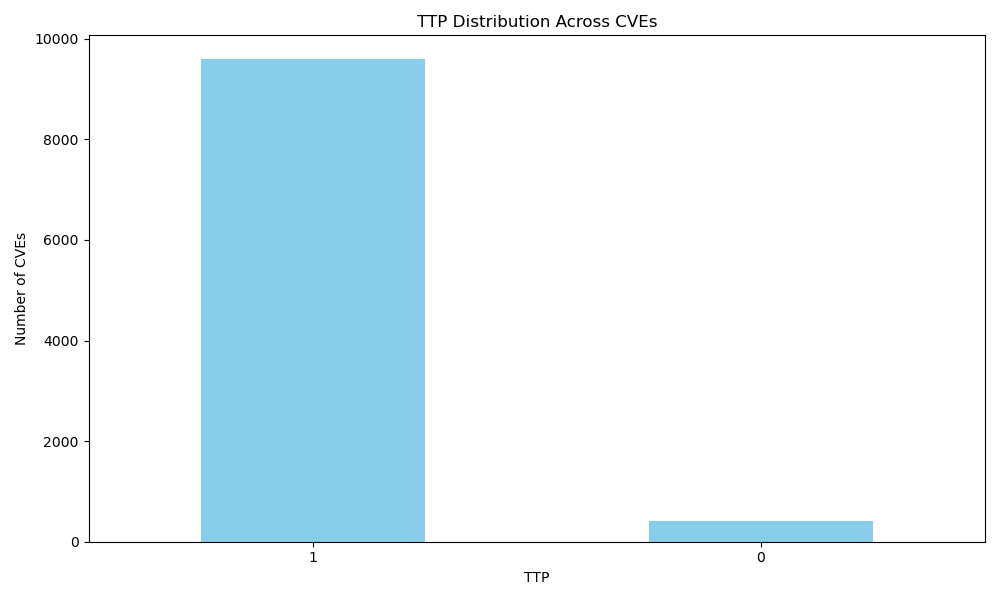
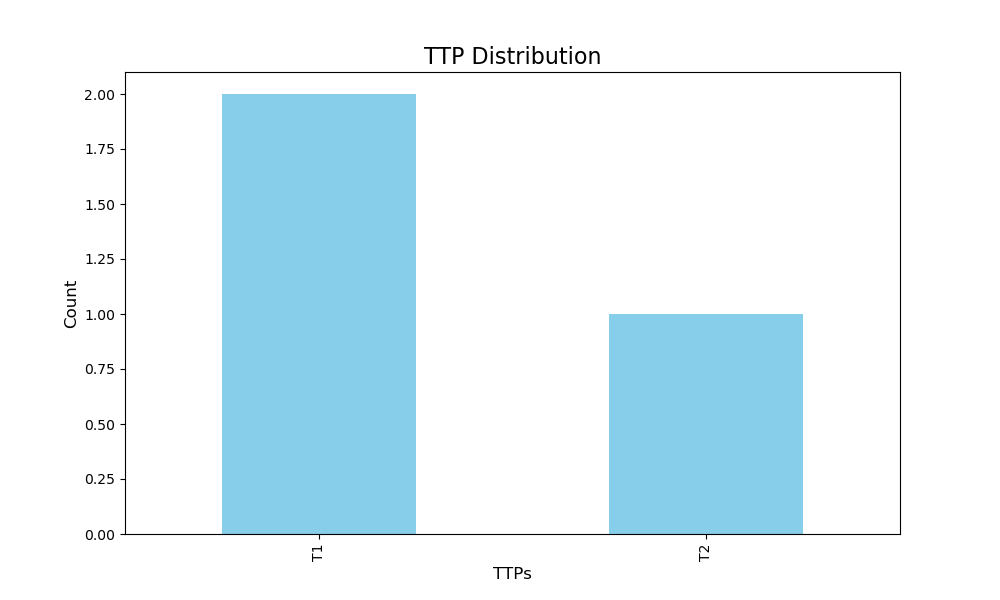
ready for deployment

diff --git a/tests/test_api_endpoints.py b/tests/test_api_endpoints.py
@@ -1,30 +1,106 @@
 from fastapi.testclient import TestClient
 from api.main import app
+import os
 
 client = TestClient(app)
 
-API_KEY = "mysecureapikey"
+# Set up mock data
+MOCK_CSV = "tests/mock_cve_data.csv"
+MOCK_EMPTY_CSV = "tests/mock_empty_data.csv"
+MOCK_INVALID_FILE = "tests/mock_invalid.txt"
+os.makedirs("tests", exist_ok=True)
 
-def test_root():
+# Create mock data files
+with open(MOCK_CSV, "w") as f:
+    f.write("Description\nSample vulnerability description 1\nSample vulnerability description 2")
+
+with open(MOCK_EMPTY_CSV, "w") as f:
+    f.write("Description\n")
+
+with open(MOCK_INVALID_FILE, "w") as f:
+    f.write("This is not a CSV file.")
+
+def test_root_endpoint():
+    """Test the root endpoint."""
     response = client.get("/")
     assert response.status_code == 200
     assert response.json() == {"message": "API is running"}
 
-def test_predict():
-    file_path = "data/processed/processed_cve_data.csv"
-    with open(file_path, "rb") as f:
+def test_predict_with_valid_csv():
+    """Test /predict/ with a valid CSV file."""
+    with open(MOCK_CSV, "rb") as file:
         response = client.post(
             "/predict/",
-            headers={"x-api-key": API_KEY},
-            files={"file": f},
+            headers={"x-api-key": "mysecureapikey"},
+            files={"file": file},
         )
     assert response.status_code == 200
-    assert "output_file" in response.json()
+    assert "Predictions generated successfully." in response.json()["message"]
 
-def test_visualize():
+def test_predict_with_empty_csv():
+    """Test /predict/ with an empty CSV file."""
+    with open(MOCK_EMPTY_CSV, "rb") as file:
+        response = client.post(
+            "/predict/",
+            headers={"x-api-key": "mysecureapikey"},
+            files={"file": file},
+        )
+    assert response.status_code == 400
+    assert "Uploaded CSV file is empty." in response.json()["detail"]
+
+def test_predict_with_invalid_file_type():
+    """Test /predict/ with an invalid file type."""
+    with open(MOCK_INVALID_FILE, "rb") as file:
+        response = client.post(
+            "/predict/",
+            headers={"x-api-key": "mysecureapikey"},
+            files={"file": file},
+        )
+    assert response.status_code == 400
+    assert "Only CSV files are supported." in response.json()["detail"]
+
+def test_predict_without_api_key():
+    """Test /predict/ without an API key."""
+    with open(MOCK_CSV, "rb") as file:
+        response = client.post(
+            "/predict/",
+            files={"file": file},
+        )
+    assert response.status_code == 403
+    assert "Invalid or missing API key" in response.json()["detail"]
+
+
+def test_visualize_with_existing_data():
+    """Test /visualize/ with existing processed data."""
+    # Simulate existing processed data
+    os.makedirs("output", exist_ok=True)
+    processed_csv = "output/predicted_cve_data.csv"
+    with open(processed_csv, "w") as f:
+        f.write("TTP,Recommendation\nT1,Mitigation 1\nT2,Mitigation 2\nT1,Mitigation 1")
+
     response = client.get(
         "/visualize/",
-        headers={"x-api-key": API_KEY}
+        headers={"x-api-key": "mysecureapikey"},
     )
     assert response.status_code == 200
-    assert "visualization" in response.json()
+    assert "Visualization generated successfully." in response.json()["message"]
+    assert "output/ttp_distribution.png" in response.json()["visualization"]
+
+def test_visualize_without_existing_data():
+    """Test /visualize/ without existing processed data."""
+    if os.path.exists("output/predicted_cve_data.csv"):
+        os.remove("output/predicted_cve_data.csv")
+
+    response = client.get(
+        "/visualize/",
+        headers={"x-api-key": "mysecureapikey"},
+    )
+    assert response.status_code == 404
+    assert "No processed data found." in response.json()["detail"]
+
+
+
+    # PYTHONPATH=. pytest tests/     //for test the endpoints
+    # uvicorn api.main:app --host=0.0.0.0 --port=8000    // for start the server
+    
+

diff --git a/api/main.py b/api/main.py
@@ -18,13 +18,19 @@ app = FastAPI()
 logging.basicConfig(level=logging.INFO)
 logger = logging.getLogger(__name__)
 
-# Authentication setup
-API_KEY = "mysecureapikey"
+import os
 
-def verify_api_key(x_api_key: str = Header(...)):
-    if x_api_key != API_KEY:
-        logger.warning("Unauthorized access attempt with invalid API key.")
-        raise HTTPException(status_code=403, detail="Invalid API key")
+API_KEY = os.getenv("API_KEY", "eutoir098ut8w9aeruiosdjgpijds")  
+
+# Authentication setup
+# API_KEY = "mysecureapikey"
+
+def verify_api_key(x_api_key: str = Header(None)):
+    if not x_api_key or x_api_key != API_KEY:
+        logger.warning("Unauthorized access attempt or missing API key.")
+        raise HTTPException(status_code=403, detail="Invalid or missing API key.")
+
+
 
 # Load model and MITRE data at startup
 model_name = "prajjwal1/bert-tiny"
@@ -43,9 +49,6 @@ def root():
 
 @app.post("/predict/", dependencies=[Depends(verify_api_key)])
 async def predict_ttp(file: UploadFile):
-    """
-    Predict TTPs from uploaded CVE data and recommend countermeasures.
-    """
     logger.info("Received file for prediction.")
     if not file.filename.endswith(".csv"):
         logger.error("Invalid file type uploaded.")
@@ -60,6 +63,10 @@ async def predict_ttp(file: UploadFile):
     except Exception as e:
         logger.error(f"Error reading CSV file: {e}")
         raise HTTPException(status_code=400, detail=f"Error reading CSV file: {e}")
+
+    if df.empty:
+        logger.error("Uploaded CSV file is empty.")
+        raise HTTPException(status_code=400, detail="Uploaded CSV file is empty.")
 
     if "Description" not in df.columns:
         logger.error("Missing 'Description' column in uploaded file.")
@@ -77,6 +84,7 @@ async def predict_ttp(file: UploadFile):
     logger.info(f"Predictions saved to {output_path}")
 
     return {"message": "Predictions generated successfully.", "output_file": output_path}
+
 
 @app.get("/visualize/", dependencies=[Depends(verify_api_key)])
 def visualize_ttp_distribution_endpoint():

diff --git a/src/models/countermeasure_engine.py b/src/models/countermeasure_engine.py
@@ -117,24 +117,27 @@ def recommend_countermeasures(ttps, ttp_to_mitigation):
     return recommendations
 
 
+import os
+import logging
+
+logger = logging.getLogger(__name__)
+
 def visualize_ttp_distribution(df):
-    """
-    Visualizes the distribution of TTPs across CVEs.
+    try:
+        ttp_counts = df["TTP"].value_counts()
+        ttp_counts.plot(kind="bar", figsize=(10, 6), color="skyblue")
+        plt.title("TTP Distribution", fontsize=16)
+        plt.xlabel("TTPs", fontsize=12)
+        plt.ylabel("Count", fontsize=12)
+        output_dir = "output"
+        os.makedirs(output_dir, exist_ok=True)
+        output_path = os.path.join(output_dir, "ttp_distribution.png")
+        plt.savefig(output_path)
+        plt.close()
+        logger.info(f"Visualization saved to {output_path}")
+        return output_path
+    except Exception as e:
+        logger.error(f"Error generating visualization: {e}")
+        raise RuntimeError(f"Error generating visualization: {e}")
 
-    Args:
-        df (DataFrame): DataFrame containing TTP predictions.
-    """
-    print("Visualizing TTP distribution...")
-    ttp_counts = df["TTP"].value_counts()
 
-    plt.figure(figsize=(10, 6))
-    ttp_counts.plot(kind="bar", color="skyblue")
-    plt.title("TTP Distribution Across CVEs")
-    plt.xlabel("TTP")
-    plt.ylabel("Number of CVEs")
-    plt.xticks(rotation=0)
-    plt.tight_layout()
-
-    plt.savefig("output/ttp_distribution.png")
-    plt.show()
-    print("TTP distribution visualization saved to output/ttp_distribution.png")
